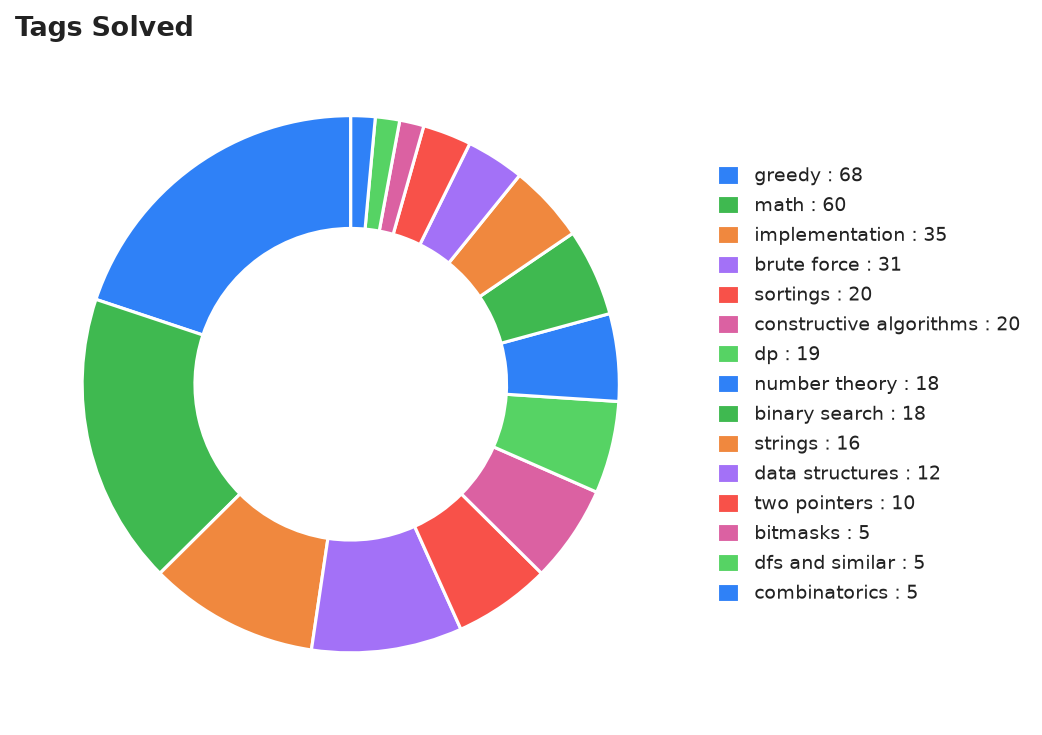
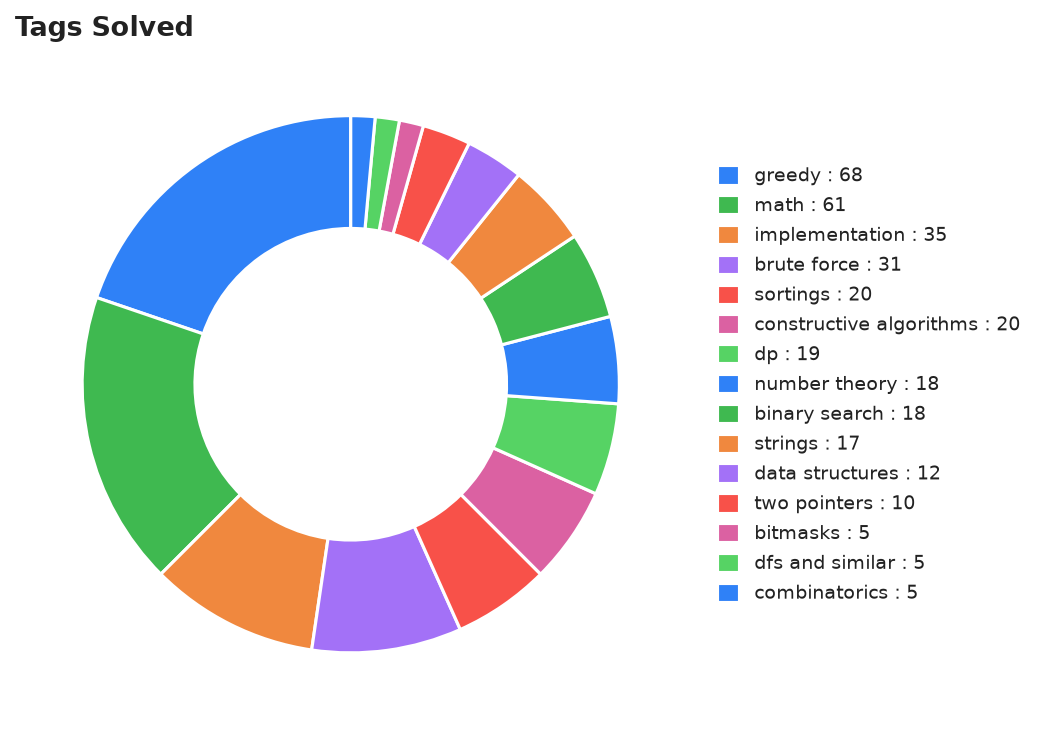
Sync: refresh analytics (rating/streak update, no new problems)

diff --git a/README.md b/README.md
@@ -55,7 +55,7 @@ Auto-generated archive of accepted Codeforces submissions for **[om_sharma_](htt
 | Tag | Count |
 |---|---|
 | `greedy` | 68 |
-| `math` | 60 |
+| `math` | 61 |
 | `implementation` | 35 |
 | `brute force` | 31 |
 | `sortings` | 20 |
@@ -63,7 +63,7 @@ Auto-generated archive of accepted Codeforces submissions for **[om_sharma_](htt
 | `dp` | 19 |
 | `number theory` | 18 |
 | `binary search` | 18 |
-| `strings` | 16 |
+| `strings` | 17 |
 | `data structures` | 12 |
 | `two pointers` | 10 |
 | `bitmasks` | 5 |
@@ -79,6 +79,7 @@ Auto-generated archive of accepted Codeforces submissions for **[om_sharma_](htt
 | `shortest paths` | 1 |
 | `graph matchings` | 1 |
 | `probabilities` | 1 |
+| `fft` | 1 |
 
 </details>
 
@@ -87,8 +88,8 @@ Auto-generated archive of accepted Codeforces submissions for **[om_sharma_](htt
 
 | # | Problem | Rating | Tags | Code | Link |
 |---|---|---|---|---|---|
-| 2257A | [Creating Abbreviations](problems/untagged/Unrated_2257A-Creating-Abbreviations) | ? |  | — | [CF](https://codeforces.com/contest/2257/problem/A) |
-| 2257B | [Gigantomachy](problems/untagged/Unrated_2257B-Gigantomachy) | ? |  | — | [CF](https://codeforces.com/contest/2257/problem/B) |
+| 2257A | [Creating Abbreviations](problems/fft/Unrated_2257A-Creating-Abbreviations) | ? | `fft`, `strings` | — | [CF](https://codeforces.com/contest/2257/problem/A) |
+| 2257B | [Gigantomachy](problems/math/Unrated_2257B-Gigantomachy) | ? | `math` | — | [CF](https://codeforces.com/contest/2257/problem/B) |
 | 4A | [Watermelon](problems/brute-force/0800_4A-Watermelon) | 800 | `brute force`, `math` | — | [CF](https://codeforces.com/contest/4/problem/A) |
 | 71A | [Way Too Long Words](problems/strings/0800_71A-Way-Too-Long-Words) | 800 | `strings` | — | [CF](https://codeforces.com/contest/71/problem/A) |
 | 231A | [Team](problems/brute-force/0800_231A-Team) | 800 | `brute force`, `greedy` | — | [CF](https://codeforces.com/contest/231/problem/A) |
